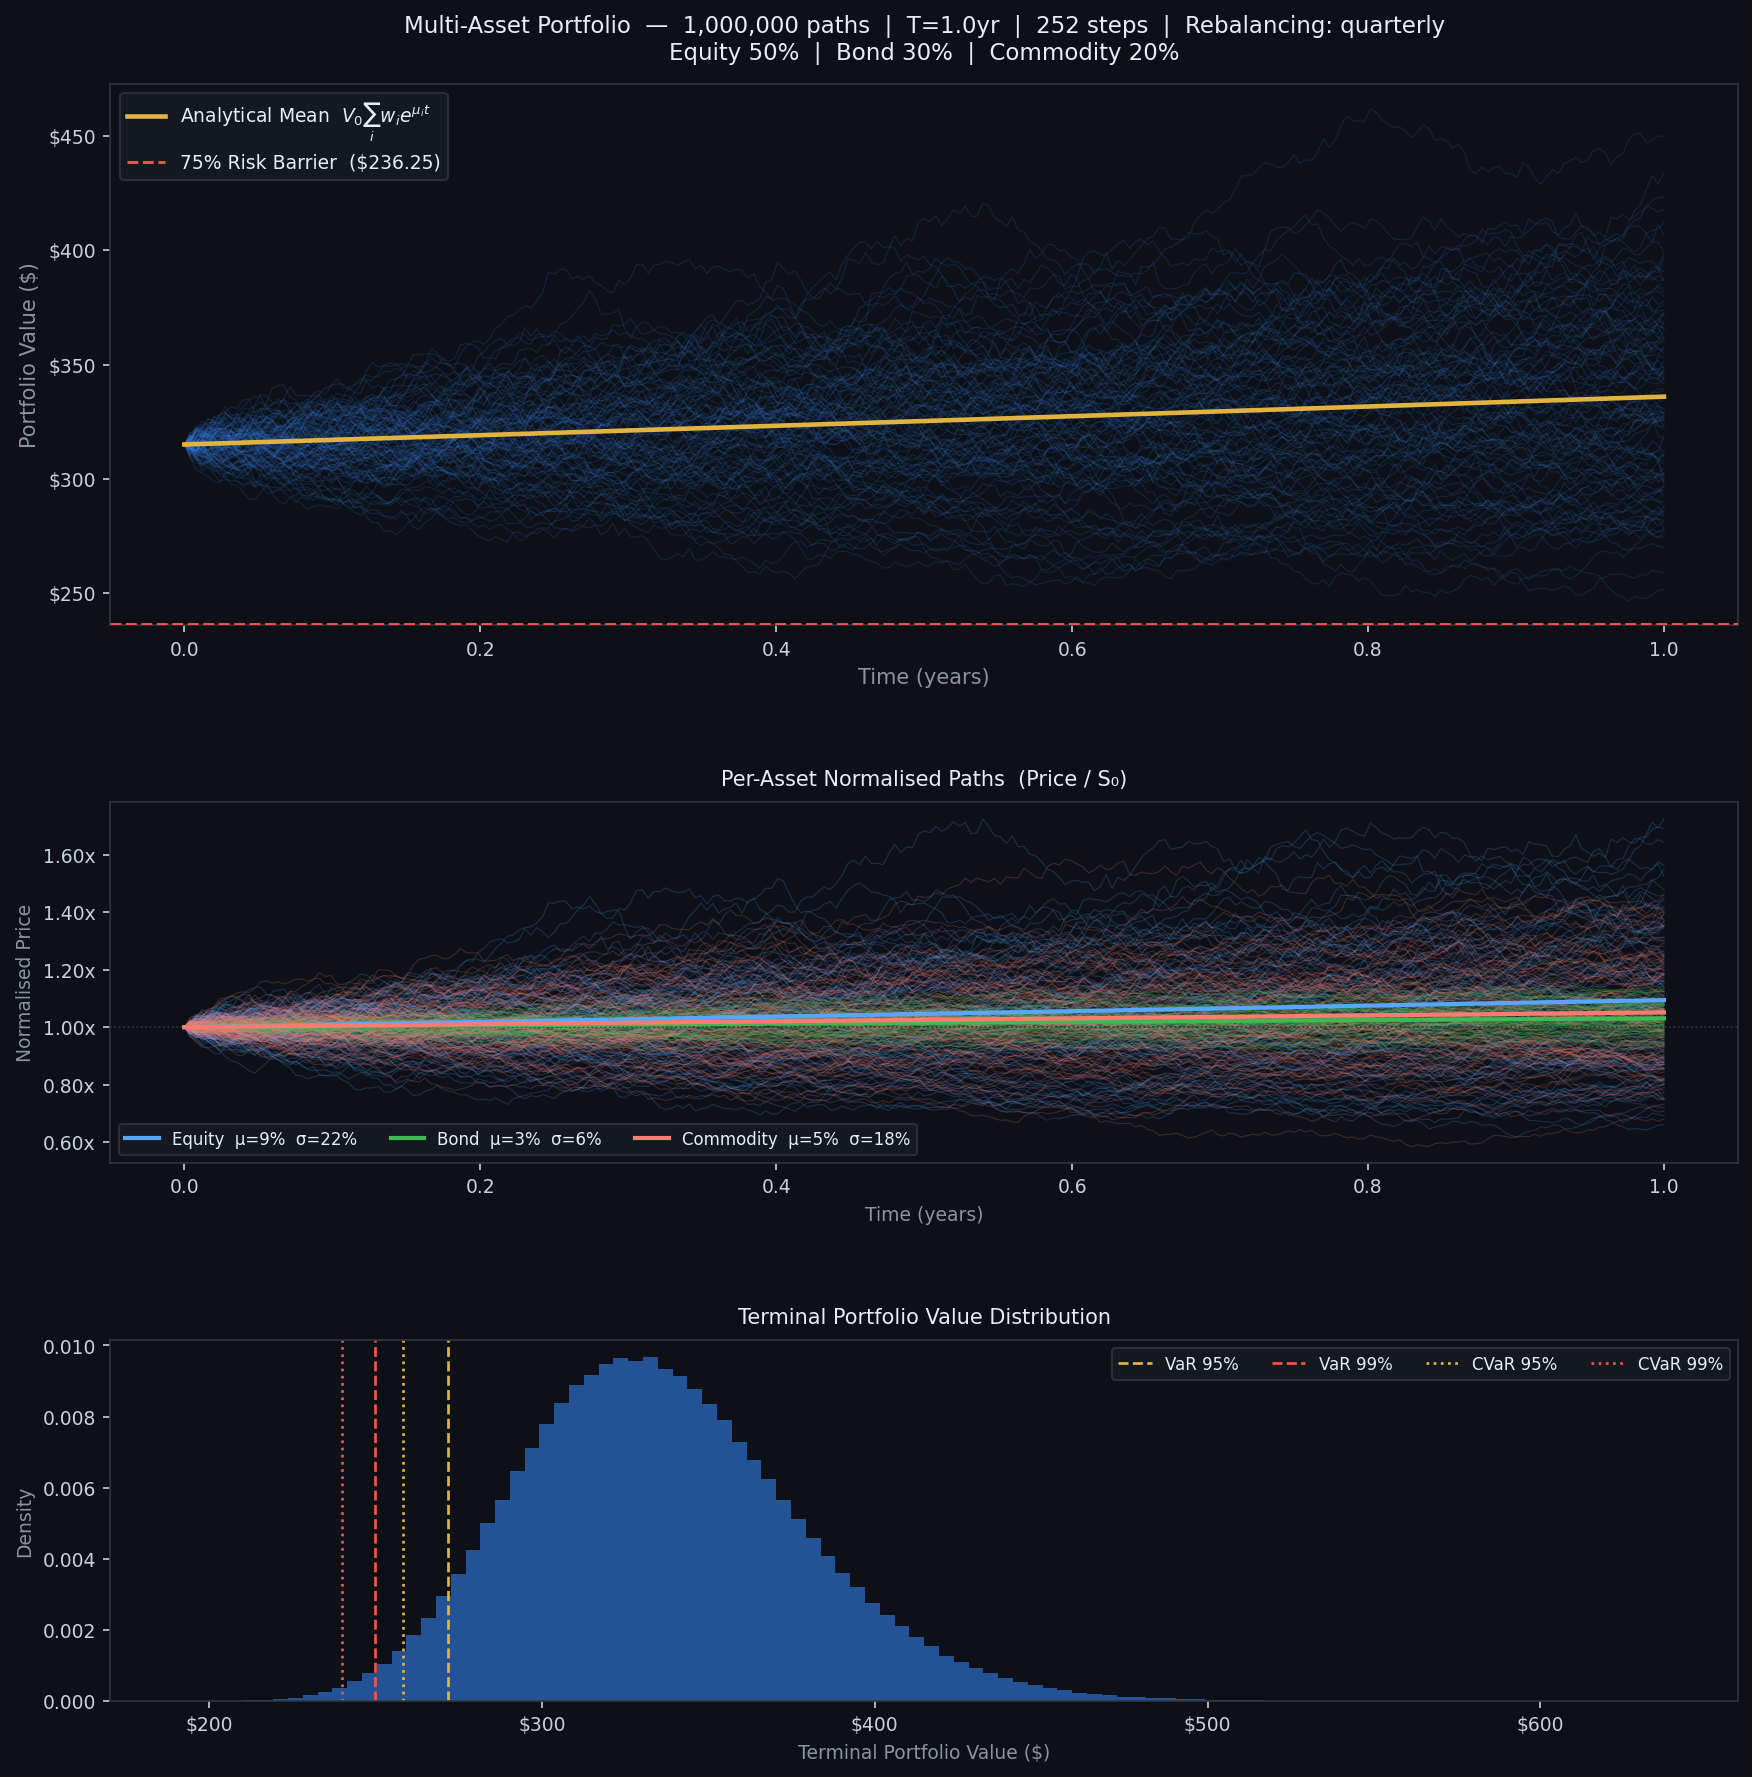
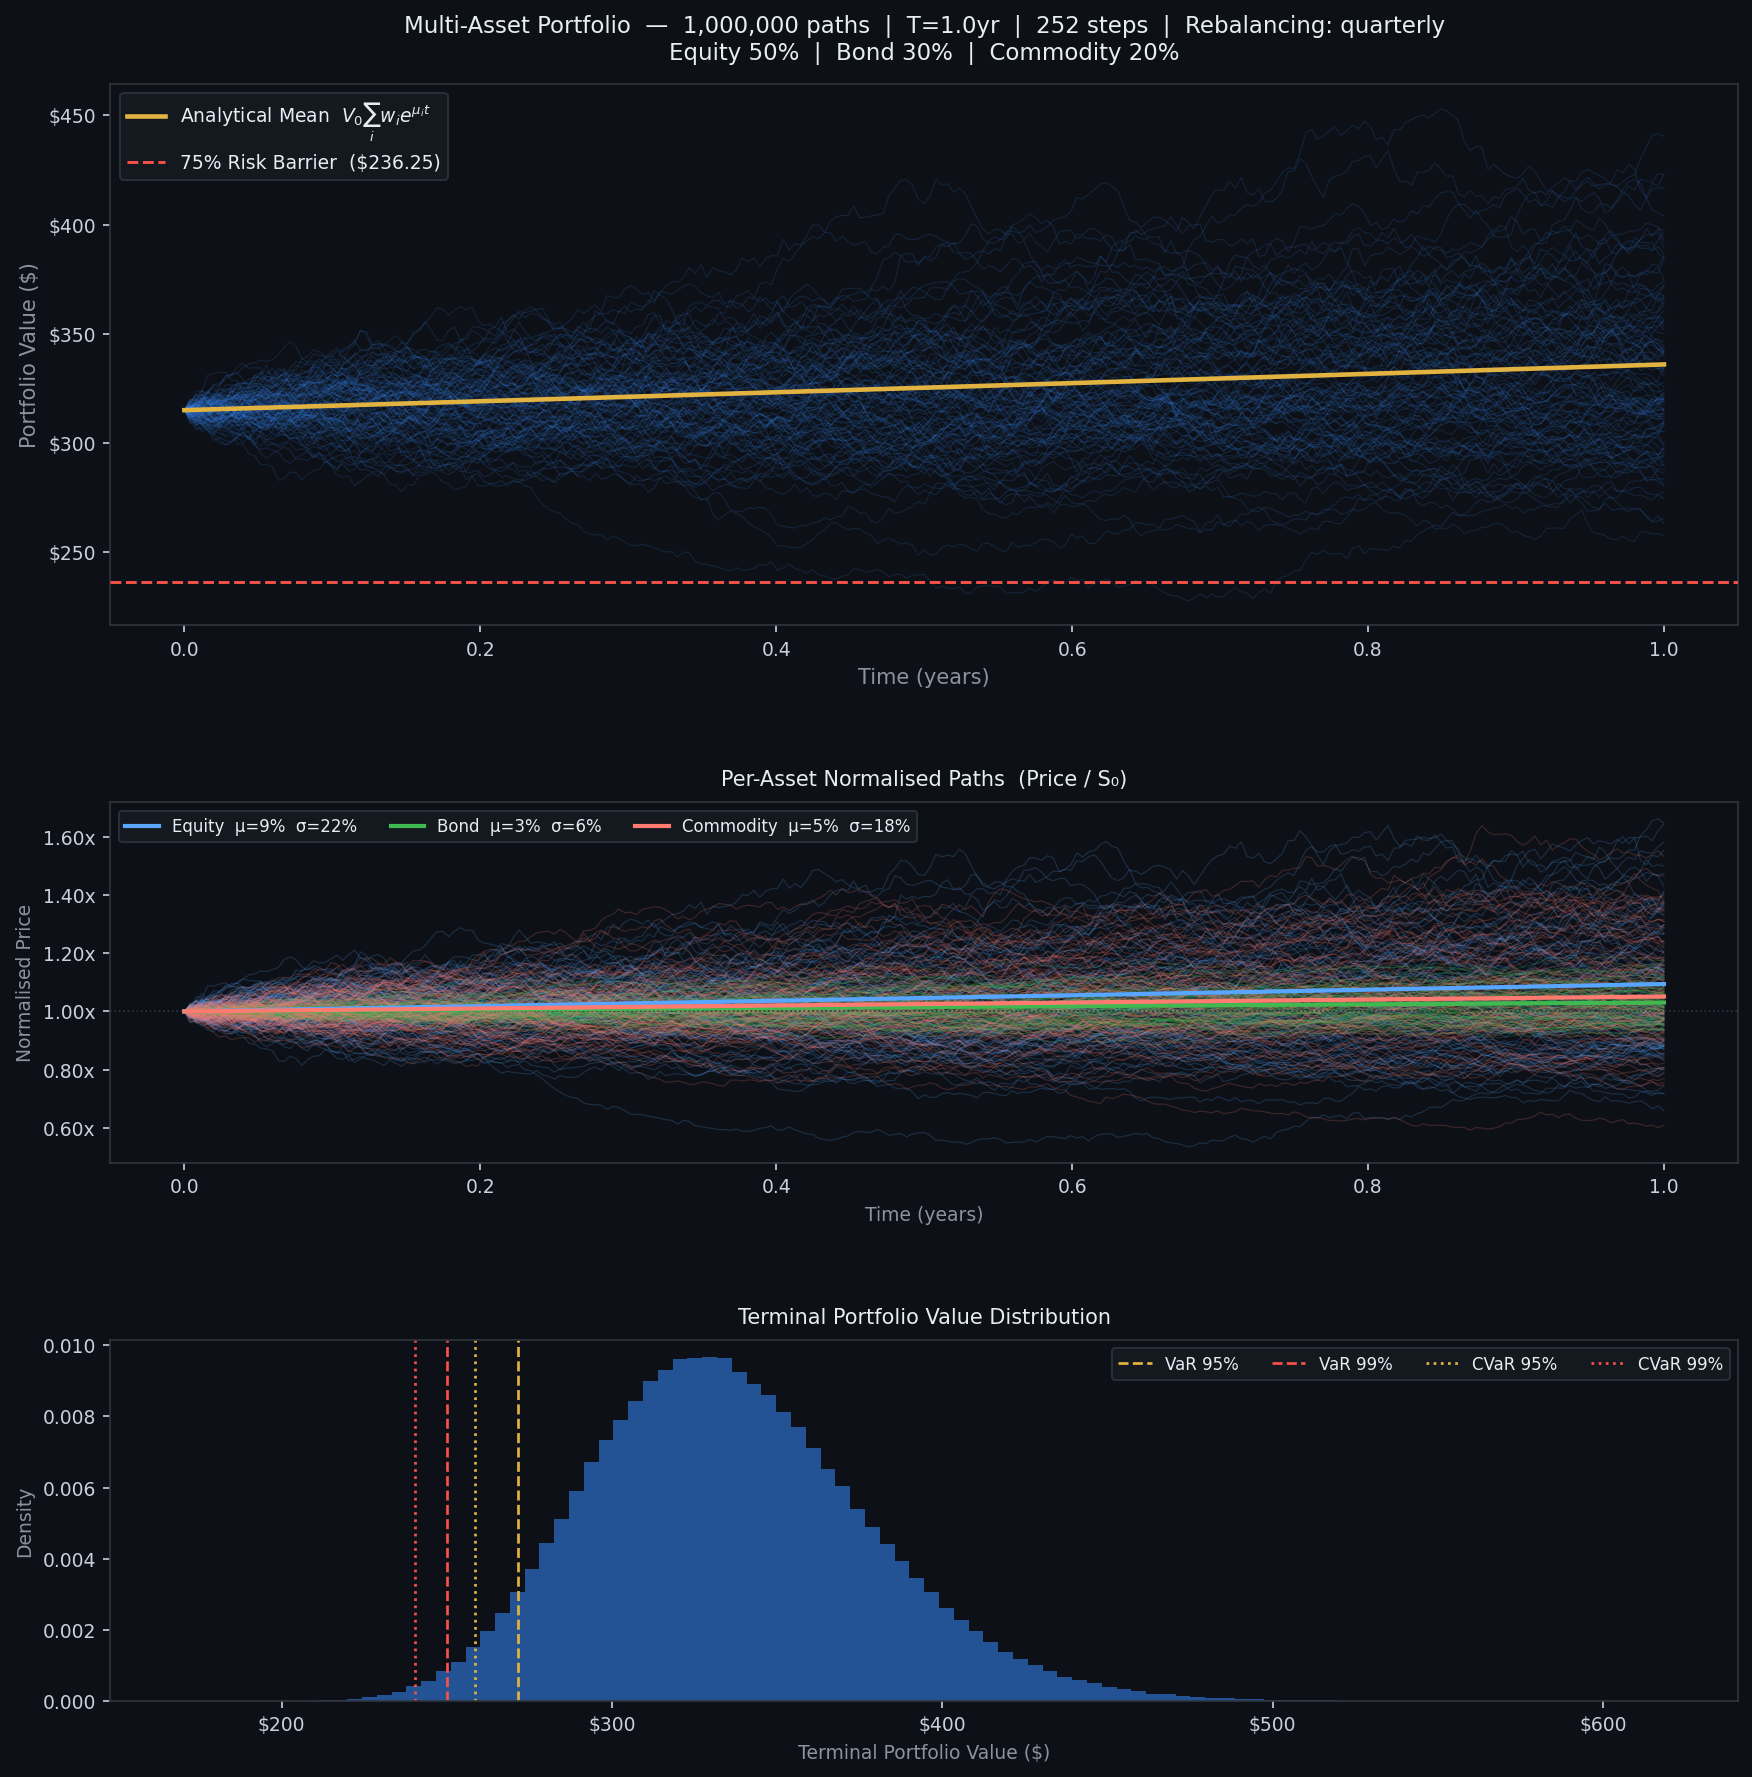
docs: update README

diff --git a/README.md b/README.md
@@ -32,7 +32,7 @@ where $\mu_i$ is the annualized drift, $\sigma_i$ is the annualized volatility, 
 
 $$S_i(t + \Delta t) = S_i(t) \cdot \exp\!\left[\left(\mu_i - \tfrac{1}{2}\sigma_i^2\right)\Delta t + \sigma_i \sqrt{\Delta t}\, Z_i\right]$$
 
-where $Z_i \sim \mathcal{N}(0, 1)$. This is the Itô-correct form; the $-\frac{1}{2}\sigma^2$ adjustment converts the log-normal drift so that $\mathbb{E}[S_i(t)] = S_{0,i}\, e^{\mu_i t}$.
+where $Z_i \sim \mathcal{N}(0, 1)$. This is the Itô-correct form. The $-\frac{1}{2}\sigma_i^2$ term corrects for the convexity of the exponential under the log-normal distribution, ensuring $\mathbb{E}[S_i(t)] = S_{0,i}\, e^{\mu_i t}$. Without it, the simulated paths would have a systematically high mean.
 
 ### Correlated Shocks via Cholesky Decomposition
 